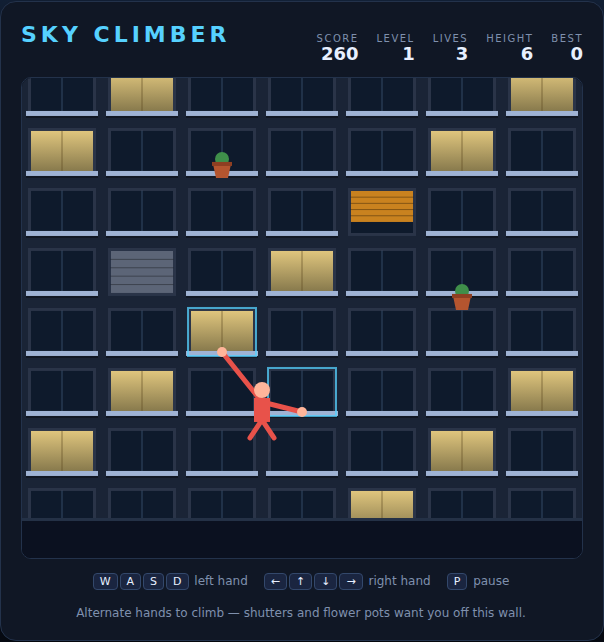
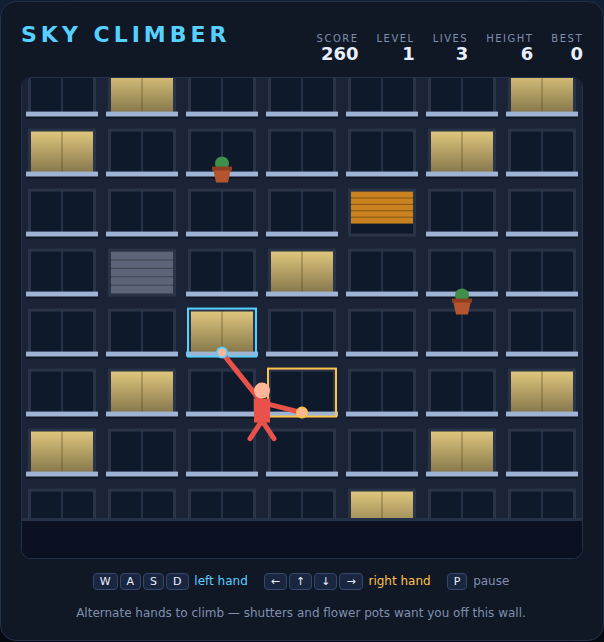
Colour-code Sky Climber's two hands
The grip ring and hand marker for each hand now match the colour of its
control group in the help text under the canvas (cyan for WASD, amber for the
arrow keys), so it is obvious which hand a key press will move.

Claude-Session: https://claude.ai/code/session_01GT87dUWpVZqiS5o1eKbf6J

diff --git a/SkyClimber/game.js b/SkyClimber/game.js
@@ -561,14 +561,16 @@ function handPoint(hand) {
 }
 
 // Ring the two windows the climber is holding, so the grips are obvious at a
-// glance even when the wall is busy.
+// glance even when the wall is busy. The colours match the two control groups
+// listed under the canvas: cyan is the WASD hand, amber is the arrow-key hand.
+const LEFT_TINT = '#56d1ff';
+const RIGHT_TINT = '#ffc14d';
+
 function drawGrips() {
-    ctx.strokeStyle = 'rgba(86, 209, 255, 0.75)';
     ctx.lineWidth = 2;
-    [leftHand, rightHand].forEach((hand) => {
-        const x = cellX(hand.col) + 6;
-        const y = cellY(hand.row) + 6;
-        ctx.strokeRect(x, y, CELL_W - 12, CELL_H - 12);
+    [[leftHand, LEFT_TINT], [rightHand, RIGHT_TINT]].forEach(([hand, tint]) => {
+        ctx.strokeStyle = tint;
+        ctx.strokeRect(cellX(hand.col) + 6, cellY(hand.row) + 6, CELL_W - 12, CELL_H - 12);
     });
 }
 
@@ -612,12 +614,15 @@ function drawClimber() {
     ctx.arc(cx, cy - 18, 8, 0, Math.PI * 2);
     ctx.fill();
 
-    // Hands
-    ctx.fillStyle = skin;
-    [l, r].forEach((p) => {
+    // Hands, tinted to match their control group.
+    [[l, LEFT_TINT], [r, RIGHT_TINT]].forEach(([p, tint]) => {
+        ctx.fillStyle = skin;
         ctx.beginPath();
         ctx.arc(p.x, p.y, 5, 0, Math.PI * 2);
         ctx.fill();
+        ctx.strokeStyle = tint;
+        ctx.lineWidth = 2;
+        ctx.stroke();
     });
 }
 

diff --git a/SkyClimber/index.html b/SkyClimber/index.html
@@ -30,8 +30,8 @@
         </div>
 
         <div class="help">
-            <p><kbd>W</kbd><kbd>A</kbd><kbd>S</kbd><kbd>D</kbd> left hand</p>
-            <p><kbd>←</kbd><kbd>↑</kbd><kbd>↓</kbd><kbd>→</kbd> right hand</p>
+            <p><kbd>W</kbd><kbd>A</kbd><kbd>S</kbd><kbd>D</kbd> <span class="tint-left">left hand</span></p>
+            <p><kbd>←</kbd><kbd>↑</kbd><kbd>↓</kbd><kbd>→</kbd> <span class="tint-right">right hand</span></p>
             <p><kbd>P</kbd> pause</p>
             <p>Alternate hands to climb — shutters and flower pots want you off this wall.</p>
         </div>

diff --git a/SkyClimber/style.css b/SkyClimber/style.css
@@ -140,6 +140,10 @@ canvas {
 
 .help p { margin: 0; }
 
+/* Matches the grip rings drawn around each hand on the canvas. */
+.tint-left { color: #56d1ff; }
+.tint-right { color: #ffc14d; }
+
 kbd {
     display: inline-block;
     margin-right: 2px;
